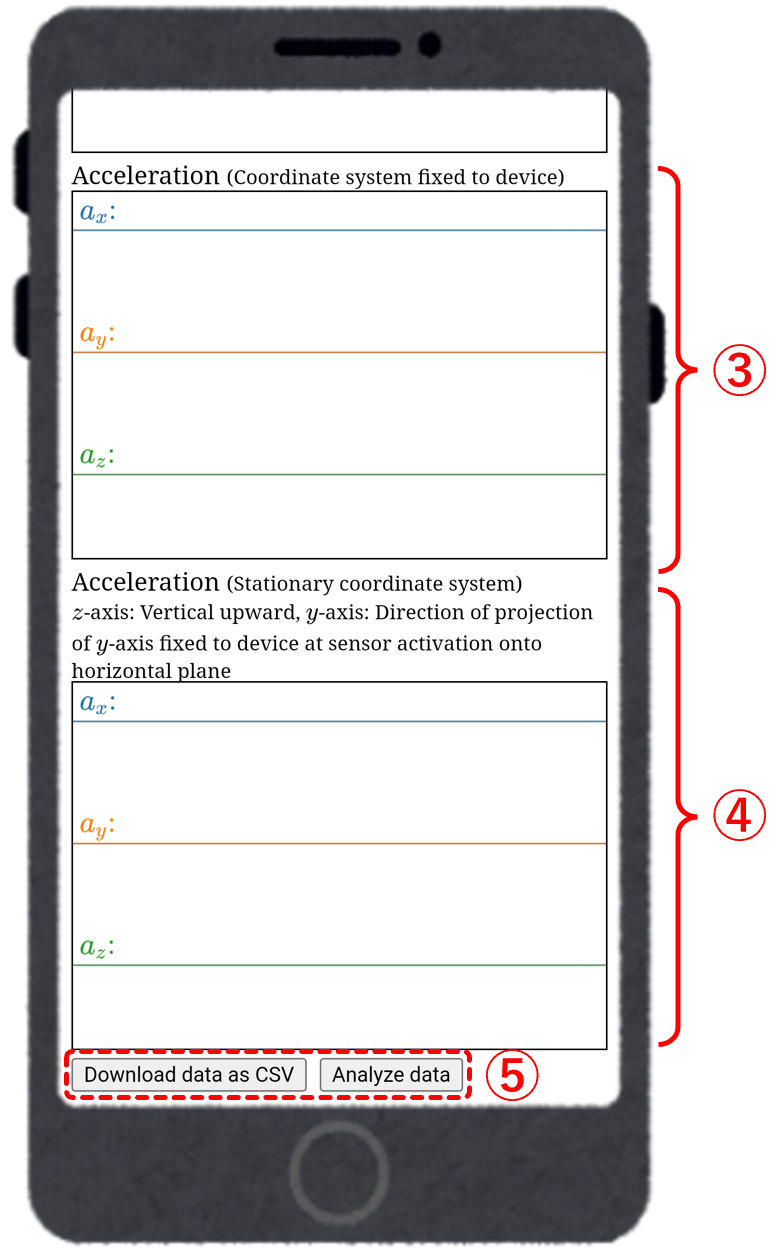
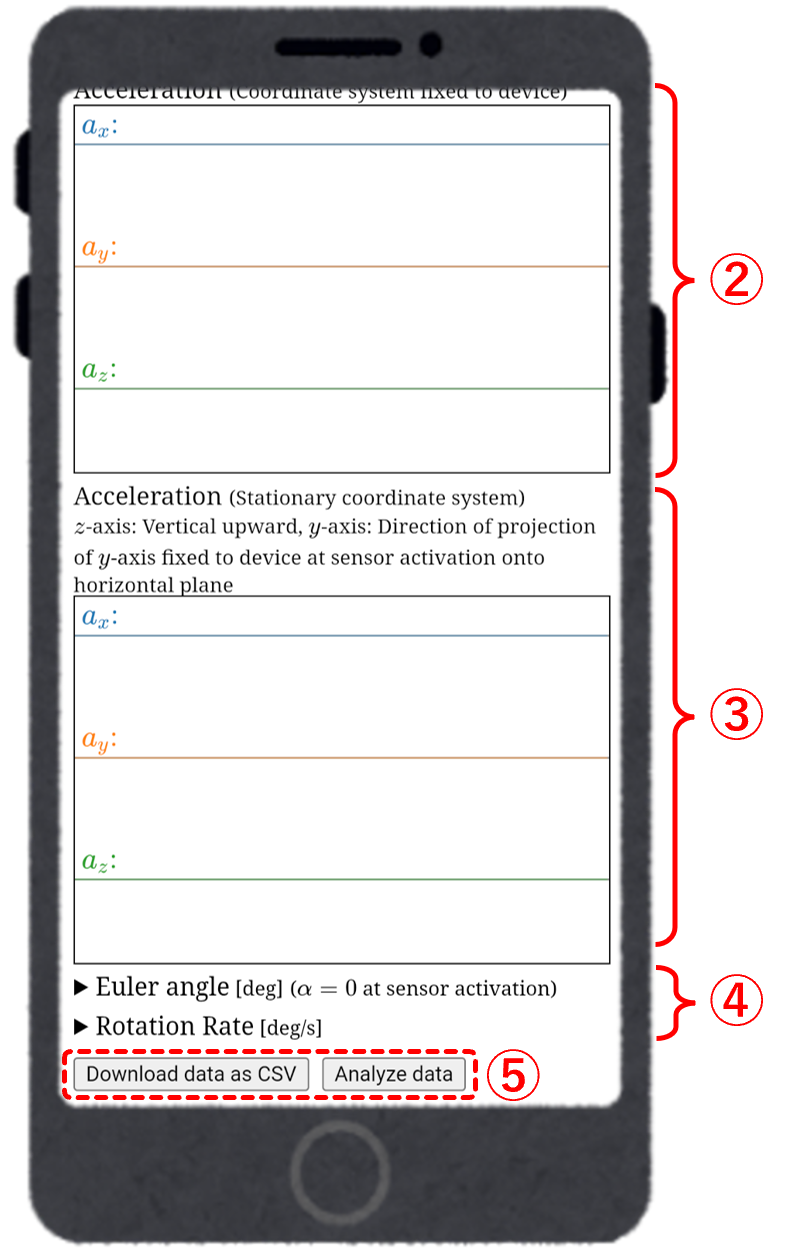
update

Changed region(s): [[0.0308, 0.0, 0.9846, 0.9984], [0.9231, 0.624, 0.9846, 0.6864]]

diff --git a/acceleration_measurement_and_analysis/manual_measurement/screen_structure.html b/acceleration_measurement_and_analysis/manual_measurement/screen_structure.html
@@ -32,7 +32,6 @@
       <li><a href="operation.html">Operating method</a></li>
       <li><a href="measurement_examples.html">Measurement examples</a></li>
       <li><a href="rotation_correction.html">Rotation correction</a></li>
-      <li><a href="search.html">Search</a></li>
     </ul>
     <input id="checkbox" type="checkbox">
     <label id="HumbergerMenu" class="menu-check" for="checkbox">
@@ -45,7 +44,6 @@
         <li><a href="operation.html">Operating method</a></li>
         <li><a href="measurement_examples.html">Measurement examples</a></li>
         <li><a href="rotation_correction.html">Rotation correction</a></li>
-        <li><a href="search.html">Search</a></li>
       </ul>
     </nav>
   </header>
@@ -55,7 +53,7 @@
     <h2>&#9632; Screen structure</h2>
 
     <div class="lfig">
-      <span class="emph1">App screen (1)</span><br />
+      <span class="emph1">App screen (1)&nbsp;&nbsp;&nbsp;&nbsp;&nbsp;&nbsp;&nbsp;&nbsp;&nbsp;&nbsp;&nbsp;&nbsp;&nbsp;&nbsp;</span><br />
       <img src="image/smartphone_screen1.png" width="360"/>
     </div>
     <div style="float:left;padding:1rem;max-width:420px;">
@@ -74,14 +72,16 @@
         &nbsp;&nbsp;EN: English, JP: Japanese
         </li>
       </ul>
-      <div class="tbl"><div class="tcl"><span class="emph3">&#9313;&nbsp;</span></div><div class="tcl"><span class="emph3">Graph area of Euler angles in <span class="mathit">z</span>-<span class="mathit">x</span>-<span class="mathit">y</span> order</span></div></div>
-      <div style="margin-left:1.5rem;">
-        For the coordinate axes fixed to the device in the figure below, <span class="mathit">&alpha;</span>, <span class="mathit">&beta;</span>, and <span class="mathit">&gamma;</span> are Euler angles around the <span class="mathit">z</span>, <span class="mathit">x</span>, and <span class="mathit">y</span> axes, respectively. The scale of the vertical axis is automatically adjusted so that the graph of each component does not overflow, so the scale is different for each component.<br />
-        <img src="image/device-fixed_coordinate.png" width="180" />
-      </div>
-      <div class="tbl"><div class="tcl"><span class="emph3">&#9314;&nbsp;</span></div><div class="tcl"><span class="emph3">Graph area of acceleration in device-fixed coordinate system</span></div></div>
+      <div class="tbl"><div class="tcl"><span class="emph3">&#9313;&nbsp;</span></div><div class="tcl"><span class="emph3">Graph area of acceleration in device-fixed coordinate system</span></div></div>
       <div style="margin-left:1.5rem;">
         <span class="mathit">a</span><sub class="mathit">x</sub>, <span class="mathit">a</span><sub class="mathit">y</sub>, <span class="mathit">a</span><sub class="mathit">z</sub> are the <span class="mathit">x</span>, <span class="mathit">y</span>, <span class="mathit">z</span> components of acceleration in the coordinate system fixed to the device, respectively. The scale of the vertical axis is automatically adjusted so that the graph of each component does not overflow, so the scale is different for each component.
+      </div>
+      <br />
+      <div class="tbl"><div class="tcl"><span class="emph3">&#9314;&nbsp;</span></div><div class="tcl"><span class="emph3">Graph area of acceleration in stationary coordinate system</span></div></div>
+      <div style="margin-left:1.5rem;">
+        The direction of the <span class="mathit">z</span> axis in the stationary coordinate system is the vertical direction (vertical upward is positive), and the direction of the <span class="mathit">y</span> axis in the stationary coordinate system is the direction in which the <span class="mathit">y</span> axis in the coordinate system fixed to the device at the time of acceleration sensor activation is projected onto the horizontal plane. 
+        <br />
+        <span class="mathit">a</span><sub class="mathit">x</sub>, <span class="mathit">a</span><sub class="mathit">y</sub>, <span class="mathit">a</span><sub class="mathit">z</sub> are the <span class="mathit">x</span>, <span class="mathit">y</span>, <span class="mathit">z</span> components of acceleration in the stationary coordinate system, respectively. The scale of the vertical axis is automatically adjusted so that the graph of each component does not overflow, so the scale is different for each component.
       </div>
     </div>
 
@@ -90,15 +90,13 @@
     <p><span style="color:#0a5c88;">When you scroll further down on the measurement app screen, a graph area displaying the acceleration in a stationary coordinate system, obtained through rotation correction, will appear.</span></p>
 
     <div class="lfig">
-      <span class="emph1">App screen (2)</span><br />
+      <span class="emph1">App screen (2)&nbsp;&nbsp;&nbsp;&nbsp;&nbsp;&nbsp;&nbsp;&nbsp;&nbsp;&nbsp;&nbsp;&nbsp;&nbsp;&nbsp;</span><br />
       <img src="image/smartphone_screen2.png" width="360"/>
     </div>
     <div style="float:left;padding:1rem;max-width:420px;">
-      <div class="tbl"><div class="tcl"><span class="emph3">&#9315;&nbsp;</span></div><div class="tcl"><span class="emph3">Graph area of acceleration in stationary coordinate system</span></div></div>
-      <div style="margin-left:1.5rem;">
-        The direction of the <span class="mathit">z</span> axis in the stationary coordinate system is the vertical direction (vertical upward is positive), and the direction of the <span class="mathit">y</span> axis in the stationary coordinate system is the direction in which the <span class="mathit">y</span> axis in the coordinate system fixed to the device at the time of acceleration sensor activation is projected onto the horizontal plane. 
-        <br />
-        <span class="mathit">a</span><sub class="mathit">x</sub>, <span class="mathit">a</span><sub class="mathit">y</sub>, <span class="mathit">a</span><sub class="mathit">z</sub> are the <span class="mathit">x</span>, <span class="mathit">y</span>, <span class="mathit">z</span> components of acceleration in the stationary coordinate system, respectively. The scale of the vertical axis is automatically adjusted so that the graph of each component does not overflow, so the scale is different for each component.
+      <div class="tbl"><div class="tcl"><span class="emph3">&#9315;&nbsp;</span></div><div class="tcl"><span class="emph3">Euler angle, Rotation rate</span></div></div>
+      <div style="margin-left:2rem;">
+        Graph areas of Euler angle (azimuth) and rotation rate (initially hidden; click to display)
       </div>
       <br />
       <div class="tbl"><div class="tcl"><span class="emph3">&#9316;&nbsp;</span></div><div class="tcl"><span class="emph3">Download and analysis</span></div></div>
@@ -106,9 +104,10 @@
         <li style="padding-bottom:5px;"><span class="emph1">Download data as CSV button</span><br />
           Press this button to download the data obtained from measurement as a CSV format file. The columns of the CSV file indicate as follows:<br />
           <span style="font-weight:bold;">Column 1:&nbsp;</span>time <span class="mathit">t</span><br />
-          <span style="font-weight:bold;">Columns 2-4:&nbsp;</span>Euler angles <span class="mathit">&alpha;</span>, <span class="mathit">&beta;</span>, <span class="mathit">&gamma;</span><br />
-          <span style="font-weight:bold;">Columns 5-7:&nbsp;</span><span class="mathit">x</span>, <span class="mathit">y</span>, <span class="mathit">z</span> components of acceleration in device-fixed coordinate system<br />
-          <span style="font-weight:bold;">Columns 8-10:&nbsp;</span><span class="mathit">x</span>, <span class="mathit">y</span>, <span class="mathit">z</span> components of acceleration in stationary coordinate system<br />
+          <span style="font-weight:bold;">Columns 2-4:&nbsp;</span><span class="mathit">x</span>, <span class="mathit">y</span>, <span class="mathit">z</span> components of acceleration in device-fixed coordinate system<br />
+          <span style="font-weight:bold;">Columns 5-7:&nbsp;</span><span class="mathit">x</span>, <span class="mathit">y</span>, <span class="mathit">z</span> components of acceleration in stationary coordinate system<br />
+          <span style="font-weight:bold;">Columns 8-10:&nbsp;</span>Euler angles $\alpha$, $\beta$, $\gamma$<br />
+          <span style="font-weight:bold;">Columns 11-13:&nbsp;</span>Rotation rates $\dot{\alpha}$, $\dot{\beta}$, $\dot{\gamma}$<br />
           The downloaded data can be imported into <a href="../manual_analysis">Acceleration Analysis App</a>, spreadsheet software such as Microsoft Excel or Google Sheets.
         </li>
         <li style="padding-bottom:5px;"><span class="emph1">Analyze data button</span><br />
@@ -118,6 +117,25 @@
     </div>
 
     <br style="clear:both;" />
+
+    <p><span style="color:#0a5c88;">Clicking on "&#9654; Euler angle" or "&#9654; Rotation rate" will display their graphs.</span></p>
+
+    <div class="lfig">
+      <span class="emph1">App screen (3)&nbsp;&nbsp;&nbsp;&nbsp;&nbsp;&nbsp;&nbsp;&nbsp;&nbsp;&nbsp;&nbsp;&nbsp;&nbsp;&nbsp;</span><br />
+      <img src="image/smartphone_screen3.png" width="360"/>
+    </div>
+    <div style="float:left;padding:1rem;max-width:420px;">
+      <div class="tbl"><div class="tcl"><span class="emph3">&#9313;&nbsp;</span></div><div class="tcl"><span class="emph3">Graph area of Euler angles in <span class="mathit">z</span>-<span class="mathit">x</span>-<span class="mathit">y</span> order</span></div></div>
+      <div style="margin-left:1.5rem;">
+        For the coordinate axes fixed to the device in the figure below, $\alpha$, $\beta$, and $\gamma$ are Euler angles around the <span class="mathit">z</span>, <span class="mathit">x</span>, and <span class="mathit">y</span> axes, respectively. The scale of the vertical axis is automatically adjusted so that the graph of each component does not overflow, so the scale is different for each component.<br />
+        <img src="image/device-fixed_coordinate.png" width="180" />
+      </div>
+      <br />
+      <div class="tbl"><div class="tcl"><span class="emph3">&#9318;&nbsp;</span></div><div class="tcl"><span class="emph3">Graph area of Rotation rate</span></div></div>
+      <div style="margin-left:2rem;">
+        $\dot{\alpha}$, $\dot{\beta}$, $\dot{\gamma}$ represent rotation rates (angular speeds) corresponding to Euler angles $\alpha$, $\beta$, $\gamma$, respectively. The scale of the vertical axis is automatically adjusted so that the graph of each component does not overflow, so the scale is different for each component.
+      </div>
+    </div>
 
   </main>
 

diff --git a/acceleration_measurement_and_analysis/manual_measurement/operation.html b/acceleration_measurement_and_analysis/manual_measurement/operation.html
@@ -32,7 +32,6 @@
       <li><a class="no_link">Operating method</a></li>
       <li><a href="measurement_examples.html">Measurement examples</a></li>
       <li><a href="rotation_correction.html">Rotation correction</a></li>
-      <li><a href="search.html">Search</a></li>
     </ul>
     <input id="checkbox" type="checkbox">
     <label id="HumbergerMenu" class="menu-check" for="checkbox">
@@ -45,7 +44,6 @@
         <li><a class="no_link">Operating method</a></li>
         <li><a href="measurement_examples.html">Measurement examples</a></li>
         <li><a href="rotation_correction.html">Rotation correction</a></li>
-        <li><a href="search.html">Search</a></li>
       </ul>
     </nav>
   </header>
@@ -111,7 +109,13 @@
           <img src="image/operation6.png" width="300" />
         </div>
         <div>
-          The first row of the data saved in CSV format is the label row. The columns of the data are as follows: the first column is the time column (label: time[s]), the 2nd to 4th columns are the Euler angles <span class="mathit">&alpha;</span>, <span class="mathit">&beta;</span>, and <span class="mathit">&gamma;</span> (labels: ar[rad], br[rad], gr[rad]), the 5th to 7th columns are the <span class="mathit">x</span>, <span class="mathit">y</span>, <span class="mathit">z</span> components of the acceleration in the device-fixed coordinate system (labels: ax[m/s^2], ay[m/s^2], az[m/s^2]), and the 8th to 10th columns are the <span class="mathit">x</span>, <span class="mathit">y</span>, <span class="mathit">z</span> components of the acceleration in the stationary coordinate system (labels: awx[m/s^2], awy[m/s^2], awz[m/s^2]).
+          The first row of the data saved in CSV format is the label row. The columns of the data are as follows:
+          <ul>
+            <li>the first column is the time column (label: time[s]),</li>
+            <li>the 2nd to 4th columns are the <span class="mathit">x</span>, <span class="mathit">y</span>, <span class="mathit">z</span> components of the acceleration in the device-fixed coordinate system (labels: ax[m/s^2], ay[m/s^2], az[m/s^2]),</li>
+            <li>5th to 7th columns are the <span class="mathit">x</span>, <span class="mathit">y</span>, <span class="mathit">z</span> components of the acceleration in the stationary coordinate system (labels: awx[m/s^2], awy[m/s^2], awz[m/s^2]),</li>
+            <li>the 8nd to 10th columns are the Euler angles $\alpha$, $\beta$, and $\gamma$ (labels: ar[rad], br[rad], gr[rad]), </li>
+            <li>the 11nd to 13th columns are the Euler angles $\dot{\alpha}$, $\dot{\beta}$, and $\dot{\gamma}$ (labels: arr[rad/s], brr[rad/s], grr[rad/s]).</li>
         </div>
         <div class="sfig" style="padding: 0.5rem 0;">
           <span class="emph2">Example of measurement data</span><br />
